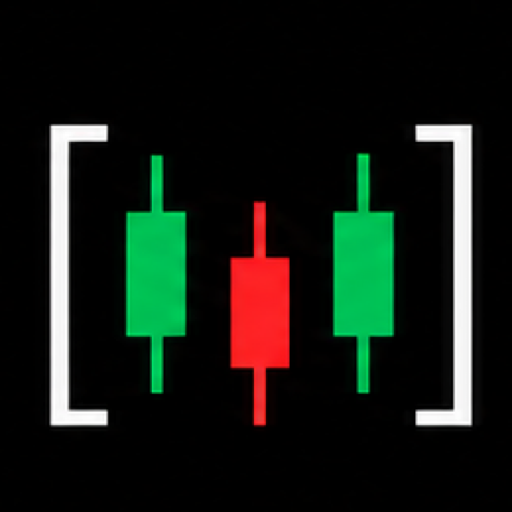
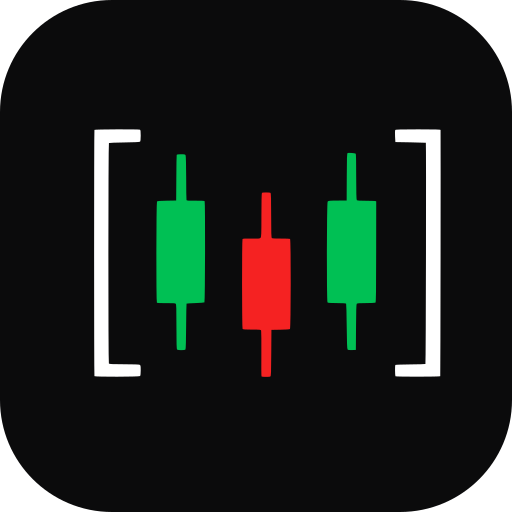
feat(brand): the TRADElogs candle mark replaces every TL placeholder
Phone header, collapsed sidebar, AI coach avatar, landing mockups, and the
app/browser icons (favicon, PWA, apple-touch) now use the bracketed candles
from the logo on the dark tile.

diff --git a/apps/web/src/components/logo-mark.tsx b/apps/web/src/components/logo-mark.tsx
@@ -1,0 +1,15 @@
+'use client';
+
+// The TRADElogs mark: the bracketed candles from the logo, square, for places too small for
+// the wordmark (phone header, collapsed sidebar, AI avatar, app icons). Same paths as <Logo>.
+export default function LogoMark({ size = 24, className = '', title = 'TRADElogs' }: { size?: number; className?: string; title?: string }) {
+  return (
+    <svg viewBox="3696 -42 700 700" width={size} height={size} className={`tl-mark ${className}`} role="img" aria-label={title} style={{ display: 'block', flex: 'none' }}>
+      <g transform="translate(0,1365) scale(.1,-.1)">
+        <path fill="var(--tl-logo-fg, #fff)" d="M37475 12900 c-8 -13 -8 -4537 0 -4550 10 -15 828 -13 843 2 8 8 12 46 12 105 0 81 -2 94 -19 103 -12 6 -123 10 -289 10 -209 0 -272 3 -280 13 -13 16 -12 4061 1 4074 5 4 133 9 285 11 173 2 282 7 289 14 9 7 13 43 13 113 0 85 -3 104 -16 109 -27 10 -832 7 -839 -4z M43033 12898 c-5 -8 -7 -58 -4 -118 l6 -105 280 -5 c154 -3 281 -7 283 -8 8 -7 1 -4082 -8 -4087 -5 -3 -131 -7 -279 -8 -148 -1 -273 -6 -277 -10 -8 -8 -6 -196 2 -209 7 -11 822 -10 828 1 4 6 10 4296 6 4549 0 9 -90 12 -414 12 -319 0 -416 -3 -423 -12z" />
+        <path fill="#00C054" d="M42152 12471 c-11 -6 -14 -95 -15 -442 l-2 -434 -169 -1 c-151 -1 -170 -3 -182 -19 -18 -24 -20 -1840 -3 -1862 9 -10 51 -13 175 -13 103 0 165 -4 169 -11 4 -5 9 -195 11 -421 3 -291 7 -415 16 -425 8 -10 31 -13 82 -11 l71 3 3 419 c1 289 6 423 13 433 9 10 50 13 173 13 88 0 166 4 173 8 10 6 13 219 13 932 1 509 1 931 1 938 -1 9 -43 12 -175 12 -129 0 -176 3 -184 13 -7 8 -11 150 -11 431 1 230 -3 422 -8 426 -12 11 -136 21 -151 11z M38995 12438 c-3 -7 -6 -200 -7 -428 l-3 -415 -171 -3 c-125 -2 -175 -6 -183 -15 -14 -18 -17 -1855 -2 -1870 6 -6 73 -9 171 -8 112 2 166 -1 176 -10 12 -9 14 -80 14 -423 0 -307 3 -415 12 -424 16 -16 143 -16 155 1 6 7 11 182 12 427 2 228 5 417 8 420 2 3 76 7 163 10 87 3 162 9 167 13 13 13 17 1857 4 1870 -7 7 -68 10 -170 9 -134 -2 -160 0 -165 13 -3 8 -6 194 -6 412 -1 236 -5 404 -11 415 -8 15 -22 18 -85 18 -50 0 -76 -4 -79 -12z" />
+        <path fill="#F52222" d="M40570 11736 c-6 -6 -10 -160 -10 -412 0 -362 -2 -404 -17 -419 -14 -15 -37 -16 -170 -13 -116 2 -156 0 -162 -10 -12 -20 -11 -1645 1 -1659 8 -10 55 -13 174 -13 155 0 163 -1 169 -20 4 -12 5 -205 4 -430 -2 -225 -1 -412 3 -415 11 -11 148 -12 163 -1 13 9 15 69 17 436 l3 425 164 3 c101 1 170 7 178 13 18 15 20 1654 2 1665 -7 4 -82 6 -167 6 -100 -1 -160 2 -169 9 -10 9 -13 93 -13 420 0 300 -3 410 -12 415 -18 11 -147 11 -158 0z" />
+      </g>
+    </svg>
+  );
+}

diff --git a/apps/web/src/components/landing-v5/landing.css b/apps/web/src/components/landing-v5/landing.css
@@ -169,7 +169,7 @@
 .l5-f-row b { font-weight: 500; }
 .l5-f-row i { flex: none; width: 32px; height: 32px; border-radius: 10px; display: grid; place-items: center; font-style: normal; }
 .l5-f-row i.r { background: rgba(254,58,49,.14); color: var(--r2); box-shadow: inset 0 0 0 1px rgba(254,58,49,.3); }
-.l5-f-row i.tl { font-weight: 700; font-size: var(--t1); color: var(--on-g); background: linear-gradient(145deg, #3BF09A, #06A253); }
+.l5-f-row i.tl { background: #0B0B0C; --tl-logo-fg: #fff; box-shadow: inset 0 0 0 1px rgba(255,255,255,.12); }
 .l5-f-row small { display: block; margin: 0; font-weight: 400; font-size: var(--t1); font-family: inherit; letter-spacing: 0; text-transform: none; color: var(--mute); }
 .l5-f-bars { display: flex; gap: 4px; align-items: flex-end; height: 34px; margin-top: 14px; }
 .l5-f-bars i { flex: 1; border-radius: 3px; }
@@ -340,7 +340,7 @@
   box-shadow: -40px 60px 120px -30px #000, 0 0 0 1px rgba(255,255,255,.2), 0 0 140px -40px rgba(8,196,101,.55); }
 .l5-mail:hover { transform: perspective(1600px) rotateY(-3deg) rotateX(1deg); }
 .l5-mail-h { display: flex; align-items: center; gap: 14px; padding: 24px 28px; border-bottom: 1px solid #ECECEC; }
-.l5-mail-av { width: 44px; height: 44px; border-radius: 13px; display: grid; place-items: center; color: var(--on-g); font-weight: 700; font-size: var(--t2); background: linear-gradient(145deg, #3BF09A, #06A253); flex: none; }
+.l5-mail-av { width: 44px; height: 44px; border-radius: 13px; display: grid; place-items: center; background: #0B0B0C; --tl-logo-fg: #fff; box-shadow: inset 0 0 0 1px rgba(255,255,255,.12); flex: none; }
 .l5-mail-h b { display: block; font-weight: 700; font-size: var(--t3); }
 .l5-mail-h span { font-size: var(--t2); color: #6B6B72; }
 .l5-mail-h time { margin-left: auto; font: 600 var(--t1) var(--sans); color: #6B6B72; white-space: nowrap; }

diff --git a/apps/web/src/components/landing-v5/sections.tsx b/apps/web/src/components/landing-v5/sections.tsx
@@ -6,6 +6,7 @@ import { CandleField, OrbCanvas } from './effects';
 import { candles, ENTRY_INDEX, EXIT_INDEX, HEAT_DAYS, heat, heatColor, heatDollars, REPLAY_H, REPLAY_W, tilt, traits } from './data';
 import Logo from '@/components/logo';
 import { PARTNERS_ENABLED } from '@/lib/features';
+import LogoMark from '@/components/logo-mark';
 
 const v = (i: number) => ({ '--i': i } as CSSProperties);
 const Tick = () => <svg viewBox="0 0 12 12" width="12" height="12" aria-hidden><path d="m2.5 6.2 2.2 2.2 4.8-5" stroke="currentColor" strokeWidth="1.7" fill="none" strokeLinecap="round" /></svg>;
@@ -302,7 +303,7 @@ export function Review() {
         </Reveal>
         <Reveal delay={120}>
           <div ref={ref} className="l5-mail" aria-label="Example weekly review email">
-            <div className="l5-mail-h"><div className="l5-mail-av" aria-hidden>TL</div><div><b>Your week in review</b><span>Week 43 · 23 trades · XM Global MT5</span></div><time>Sat 09:00</time></div>
+            <div className="l5-mail-h"><div className="l5-mail-av" aria-hidden><LogoMark size={30} title="" /></div><div><b>Your week in review</b><span>Week 43 · 23 trades · XM Global MT5</span></div><time>Sat 09:00</time></div>
             <div className="l5-mail-b">
               <p>Net <strong className="g">+$1,184</strong> on the week, profit factor <strong>1.9</strong>. Your London longs on XAUUSD carried it — <strong>7 of 8</strong> closed green.</p>
               <p>The leak: after 15:00 you took <strong>6 trades</strong> and lost <strong className="r">−$612</strong>, four of them within 20 minutes of a loss.</p>

diff --git a/apps/web/src/styles/v6/frame.css b/apps/web/src/styles/v6/frame.css
@@ -15,8 +15,8 @@ html[data-theme=light]:has(.v6.f-page), html[data-theme=light] body:has(.v6.f-pa
 }
 .v6 .f-brand { display: flex; align-items: center; height: 34px; padding: 0 8px; text-decoration: none; --tl-logo-fg: var(--logo-fg); }
 .v6 .f-brand-mark {
-  display: none; width: 36px; height: 36px; border-radius: 11px; background: var(--g); color: var(--on-g);
-  place-items: center; font: 500 var(--t2) var(--mono);
+  display: none; width: 36px; height: 36px; border-radius: 11px; background: #0B0B0C; --tl-logo-fg: #fff;
+  box-shadow: inset 0 0 0 1px rgba(255, 255, 255, .1); place-items: center;
 }
 .v6 .f-search {
   height: 36px; border-radius: 11px; border: 0; background: var(--s1); color: var(--dim); box-shadow: var(--shadow);
@@ -161,8 +161,8 @@ html[data-theme=light]:has(.v6.f-page), html[data-theme=light] body:has(.v6.f-pa
   .v6 .f-title h1 { font-size: var(--t4); font-weight: 800; letter-spacing: -.035em; }
   .v6 .f-title p { font-size: var(--t2); }
   .v6 .f-mlogo {
-    display: grid; width: 36px; height: 36px; border-radius: 11px; background: var(--g); color: var(--on-g);
-    place-items: center; font: 500 var(--t1) var(--mono); text-decoration: none; flex: none;
+    display: grid; width: 36px; height: 36px; border-radius: 11px; background: #0B0B0C; --tl-logo-fg: #fff;
+    box-shadow: inset 0 0 0 1px rgba(255, 255, 255, .1); place-items: center; text-decoration: none; flex: none;
   }
   .v6 .f-mtools { display: flex; gap: 6px; margin-left: auto; flex: none; }
   .v6 .f-tools { flex-wrap: wrap; gap: 8px; }

diff --git a/apps/web/src/components/v6/frame.tsx b/apps/web/src/components/v6/frame.tsx
@@ -25,6 +25,7 @@ import '@/styles/v6/lux.css';
 import { useMenu } from './ui/use-menu';
 import { useDialog } from './ui/use-dialog';
 import IconButton from './ui/icon-button';
+import LogoMark from '@/components/logo-mark';
 
 type Icon = (p: { size?: number }) => ReactNode;
 export type FrameNavItem = { href: string; label: string; icon: Icon; badge?: string };
@@ -156,7 +157,7 @@ export default function Frame(p: Props) {
       <aside className="f-sb" aria-label="Sidebar" data-testid="sidebar">
         <Link href="/dashboard" className="f-brand" aria-label="TRADElogs dashboard">
           <span className="f-brand-full"><Logo height={24} /></span>
-          <span className="f-brand-mark" aria-hidden>TL</span>
+          <span className="f-brand-mark" aria-hidden><LogoMark size={26} title="" /></span>
         </Link>
         <button className="f-search" onClick={p.onOpenSearch} aria-label="Search pages (⌘K)">
           <ISearch size={15} /><span>Search</span><kbd>⌘K</kbd>
@@ -178,7 +179,7 @@ export default function Frame(p: Props) {
       <div className="f-main">
         <header className="f-top">
           <div className="f-title">
-            <Link href="/dashboard" className="f-mlogo" aria-label="TRADElogs dashboard">TL</Link>
+            <Link href="/dashboard" className="f-mlogo" aria-label="TRADElogs dashboard"><LogoMark size={26} title="" /></Link>
             <div className="x-min0">
               <h1 data-testid="crumb">{p.pageTitle}</h1>
               {p.subtitle && <p>{p.subtitle}</p>}

diff --git a/apps/web/src/app/coach/page.tsx b/apps/web/src/app/coach/page.tsx
@@ -17,6 +17,7 @@ import { IPlus } from '@/components/v6/icons';
 import { useDialog } from '@/components/v6/ui/use-dialog';
 import { useAccounts } from '@/lib/use-accounts';
 import { api, type AiChatMessage, type AiConversationSummary, type BrokerAccount } from '@/lib/api';
+import LogoMark from '@/components/logo-mark';
 
 const STARTERS = [
   { web: false, text: 'What’s my biggest leak right now?' },
@@ -341,7 +342,7 @@ export default function CoachPage() {
               </div>
             ) : isEmpty ? (
               <div className="ai-hello" data-testid="coach-empty">
-                <span className="ai-av">TL</span>
+                <span className="ai-av"><LogoMark size={30} title="TRADElogs AI" /></span>
                 <h2>Ask your coach</h2>
                 <p>{accountId
                   ? 'I read your closed trades, stats and journal, and can search the web for market context. Ask about your behaviour or what\u2019s happening out there. No trade signals, just clarity.'
@@ -364,7 +365,7 @@ export default function CoachPage() {
                   const streaming = isLast && sending && !!m.content;
                   return (
                     <div key={i} className="ai-a" data-testid="coach-msg-assistant">
-                      <span className="ai-av" aria-hidden>TL</span>
+                      <span className="ai-av" aria-hidden><LogoMark size={20} title="" /></span>
                       <div className="ai-a-bd">
                         {m.content ? (
                           <>

diff --git a/apps/web/src/components/landing-v5/hero.tsx b/apps/web/src/components/landing-v5/hero.tsx
@@ -4,6 +4,7 @@ import { useEffect, useRef } from 'react';
 import { SilkCanvas } from './effects';
 import { Ticker } from './nav';
 import { StartButton } from './ui';
+import LogoMark from '@/components/logo-mark';
 
 const BROKERS = ['XM', 'Exness', 'Vantage', 'Elefin', 'Xellion', 'IC Markets', 'Pepperstone', 'FBS'];
 
@@ -65,7 +66,7 @@ export default function Hero() {
           <div className="l5-f-bars"><i style={{ height: '40%' }} className="g" /><i style={{ height: '62%' }} className="g" /><i style={{ height: '34%' }} className="r" /><i style={{ height: '55%' }} className="g" /><i style={{ height: '70%' }} className="r" /><i style={{ height: '84%' }} className="r" /><i style={{ height: '100%' }} className="r" /><i style={{ height: '78%' }} className="r" /></div>
         </div>
         <div className="l5-float l5-f-mail" aria-hidden>
-          <div className="l5-f-row"><i className="tl">TL</i><span><b>Your week in review</b><small>Sat 09:00 · 23 trades</small></span></div>
+          <div className="l5-f-row"><i className="tl"><LogoMark size={18} title="" /></i><span><b>Your week in review</b><small>Sat 09:00 · 23 trades</small></span></div>
           <p>One thing to fix: <b>stop new entries after 15:00 London.</b></p>
         </div>
         <div className="l5-stage-fade" aria-hidden />

diff --git a/apps/web/src/styles/v6/ai.css b/apps/web/src/styles/v6/ai.css
@@ -225,7 +225,7 @@
 .v6 .ai-msgs { display: grid; gap: 22px; max-width: 760px; margin: 0 auto; }
 .v6 .ai-u { justify-self: end; max-width: min(78%, 560px); background: var(--s2); border-radius: 18px 18px 6px 18px; padding: 10px 14px; font-size: var(--t3); line-height: 1.55; white-space: pre-wrap; overflow-wrap: anywhere; }
 .v6 .ai-a { display: grid; grid-template-columns: 28px minmax(0, 1fr); gap: 12px; min-width: 0; }
-.v6 .ai-av { width: 28px; height: 28px; border-radius: 9px; background: var(--g-soft); color: var(--g-tx); display: grid; place-items: center; font: 500 var(--t1) var(--mono); }
+.v6 .ai-av { width: 28px; height: 28px; border-radius: 9px; background: #0B0B0C; --tl-logo-fg: #fff; box-shadow: inset 0 0 0 1px rgba(255, 255, 255, .1); display: grid; place-items: center; flex: none; }
 .v6 .ai-a-bd { min-width: 0; padding-top: 3px; }
 .v6 .ai-chat-new { margin-left: auto; }
 .v6 .ai-sk-u { display: block; justify-self: end; width: 46%; height: 40px; border-radius: 18px; }
